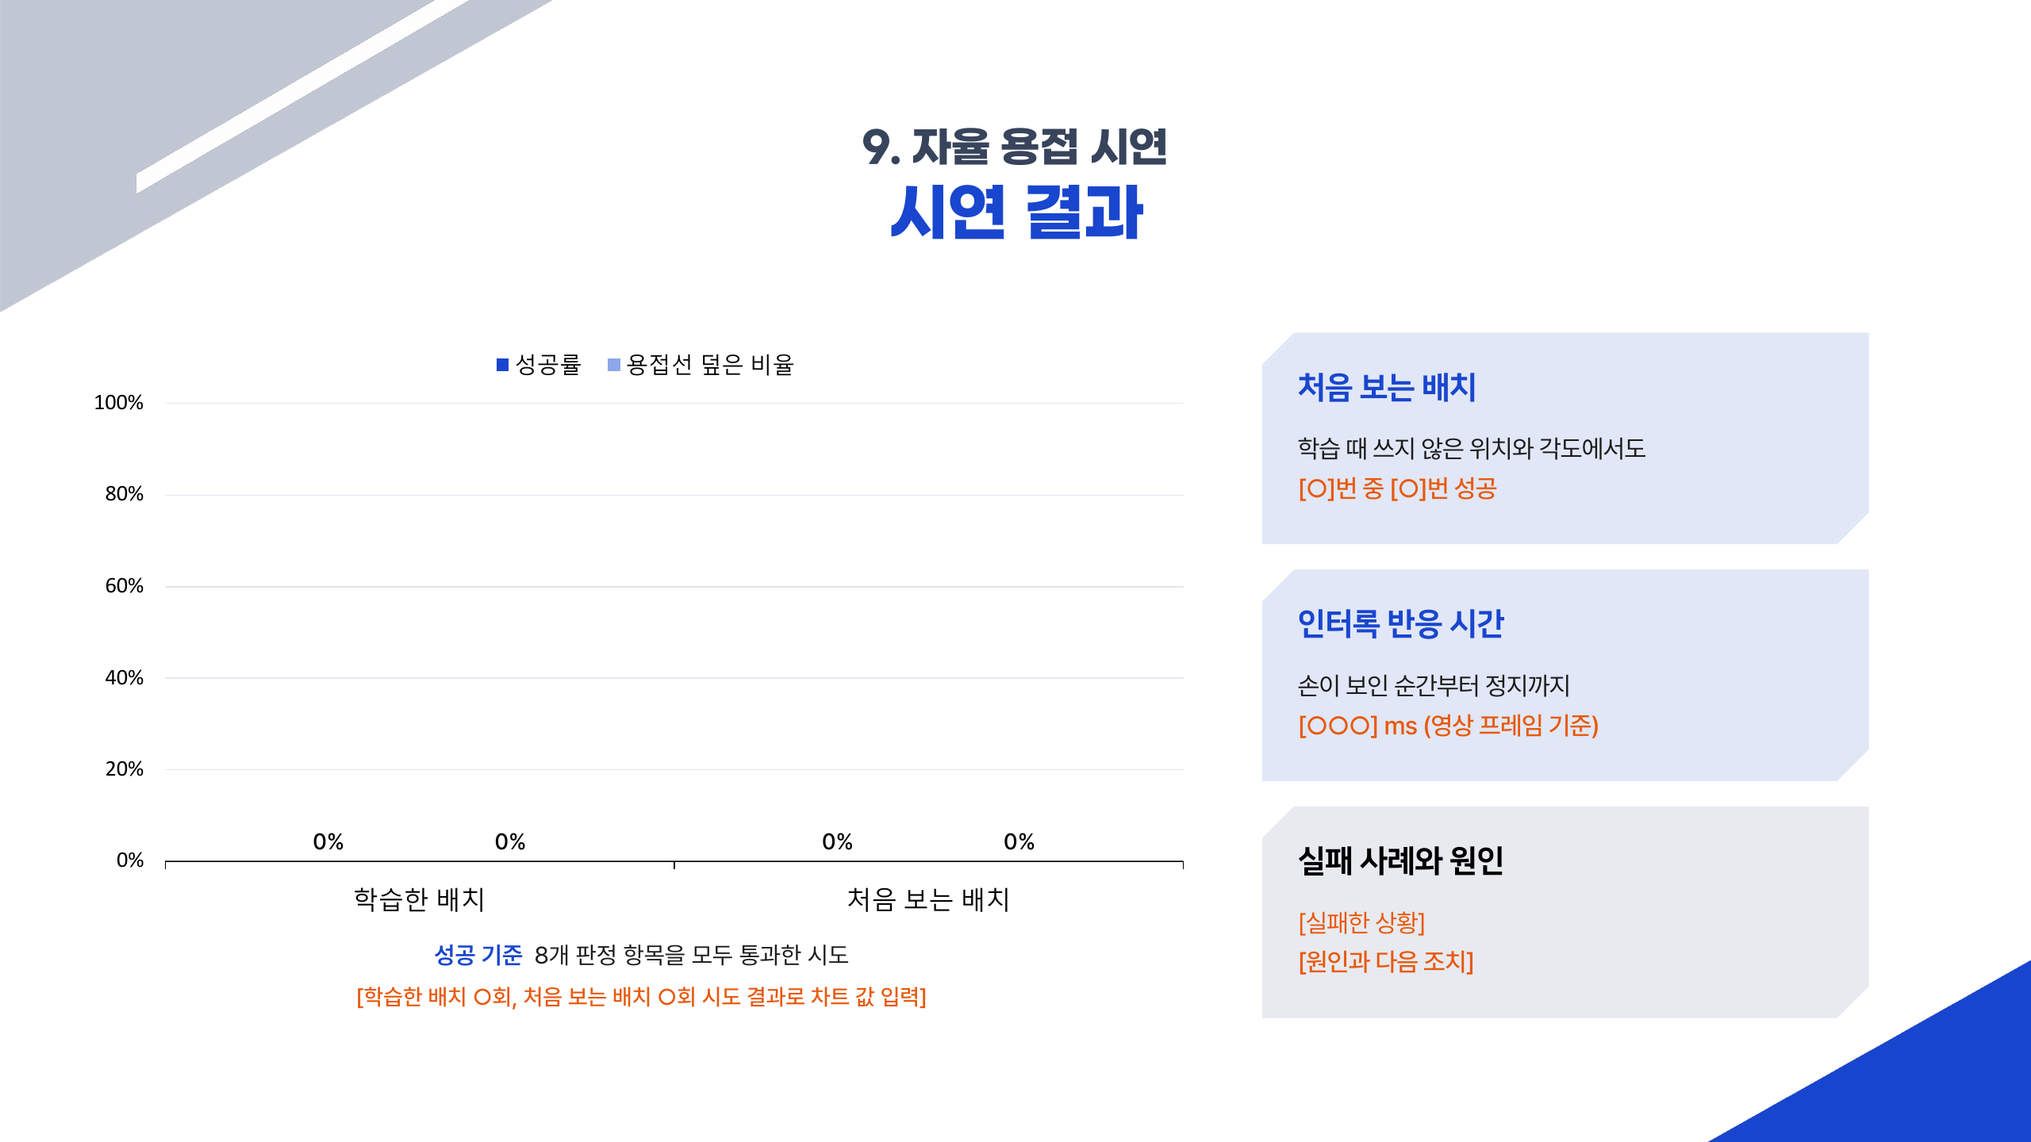
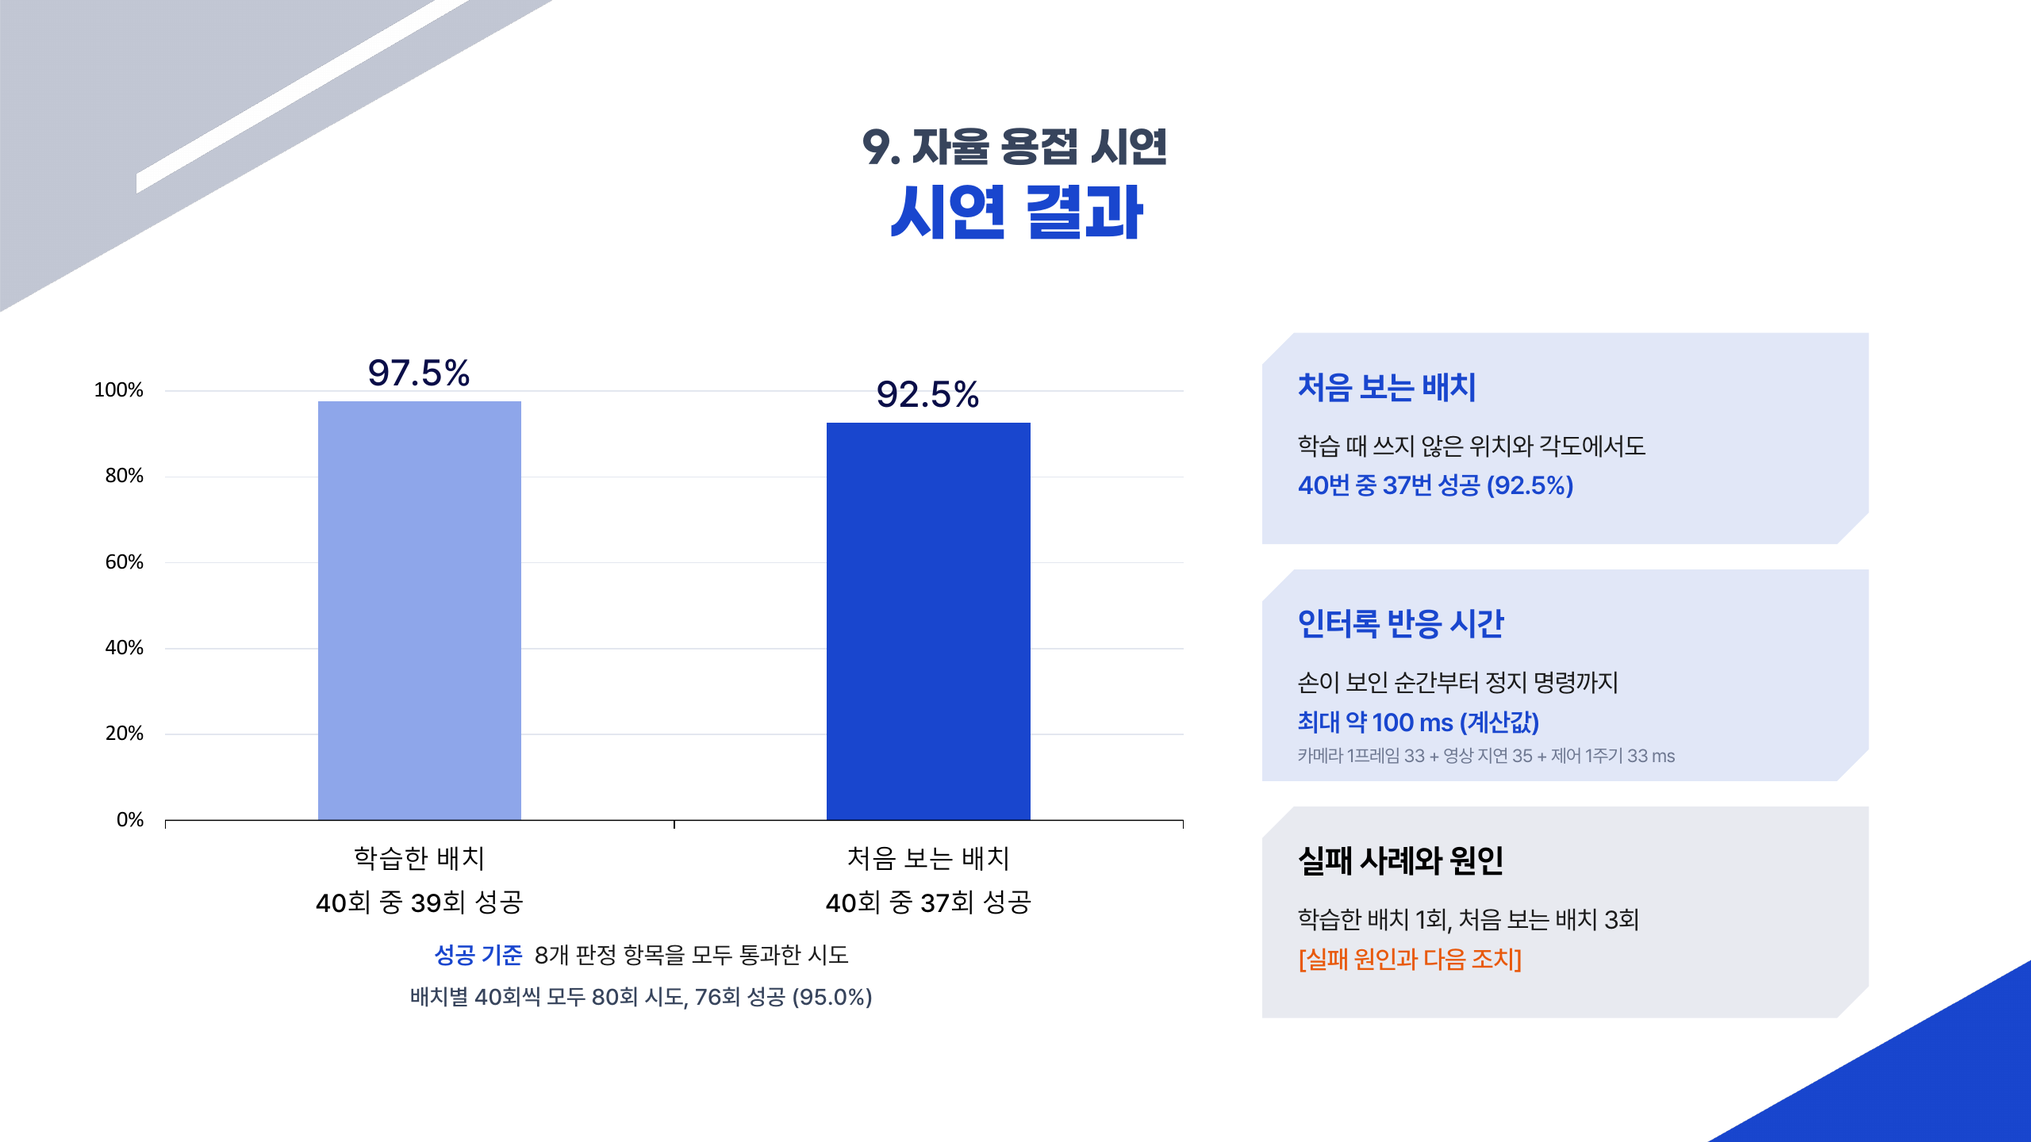
시연 결과 숫자와 개요 사진 반영, 구성도 그림을 6축으로 수정
- 18장 시연 결과: 학습한 배치 40회 중 39회(97.5%), 처음 보는 배치 40회 중
  37회(92.5%). 인터록 반응 시간은 실측값이 없어 계산값(최대 약 100 ms)으로 표시
- 3장 개요 사진을 코너 시편 시연 영상에서 초록 레이저가 용접선을 비추는 장면으로 교체
- 소개 페이지: 같은 사진으로 바꾸고 성공 판정 기준 아래에 결과 표 추가
- 소개 페이지 구성도 그림에 남아 있던 '7축 매니퓰레이터'를 6축으로 다시 뽑음

diff --git a/index.html b/index.html
@@ -49,52 +49,52 @@
 </head>
 <body>
 <main class="stage" id="stage">
-  <img class="slide" src="deck/final/01.png?v=11121123" alt="2026 IRC 지능로봇대회 매니퓰레이터 종목. 제조 디지털 전환(DX) 6축 자율용접 로봇. 손태산, 김광빈, 김동희, 왕혜영">
-  <img class="slide" src="deck/final/02.png?v=11121123" alt="목차" loading="lazy">
-  <img class="slide" src="deck/final/03.png?v=11121123" alt="1. 프로젝트 개요. 6축 자율용접 로봇" loading="lazy">
-  <img class="slide" src="deck/final/04.png?v=11121123" alt="2. 프로젝트 수행 배경: 숙련 기술의 단절과 기존 자동용접의 한계. 실내 철골 제작공장 자동용접 사진, 강교량 야외 건설현장 사진" loading="lazy">
-  <img class="slide" src="deck/final/05.png?v=11121123" alt="3. 프로젝트 수행 필요성: 숙련 기술의 계승과 비정형 환경 대응을 위한 자율용접 기술의 필요성" loading="lazy">
+  <img class="slide" src="deck/final/01.png?v=11121141" alt="2026 IRC 지능로봇대회 매니퓰레이터 종목. 제조 디지털 전환(DX) 6축 자율용접 로봇. 손태산, 김광빈, 김동희, 왕혜영">
+  <img class="slide" src="deck/final/02.png?v=11121141" alt="목차" loading="lazy">
+  <img class="slide" src="deck/final/03.png?v=11121141" alt="1. 프로젝트 개요. 6축 자율용접 로봇. 왼쪽은 코너 시편의 용접선을 초록 레이저로 따라가는 로봇 사진" loading="lazy">
+  <img class="slide" src="deck/final/04.png?v=11121141" alt="2. 프로젝트 수행 배경: 숙련 기술의 단절과 기존 자동용접의 한계. 실내 철골 제작공장 자동용접 사진, 강교량 야외 건설현장 사진" loading="lazy">
+  <img class="slide" src="deck/final/05.png?v=11121141" alt="3. 프로젝트 수행 필요성: 숙련 기술의 계승과 비정형 환경 대응을 위한 자율용접 기술의 필요성" loading="lazy">
   <div class="slide">
-    <img src="deck/final/06.png?v=11121123" alt="4. 개발 목표 및 차별성: 룰 베이스를 넘어 숙련 행동 학습으로. OPTi3 용접로봇 전시 시연과 실제 아크 용접 영상, 기존 룰 베이스와 본 프로젝트 비교, 최종 개발 목표" loading="lazy">
+    <img src="deck/final/06.png?v=11121141" alt="4. 개발 목표 및 차별성: 룰 베이스를 넘어 숙련 행동 학습으로. OPTi3 용접로봇 전시 시연과 실제 아크 용접 영상, 기존 룰 베이스와 본 프로젝트 비교, 최종 개발 목표" loading="lazy">
     <!-- PPT 6장 영상 자리(x 60/468, y 270, 392×294pt / 1440×810pt)에 맞춰 올린 6초~20초 구간 GIF -->
-    <img class="clip" style="left:4.1667%; top:33.333%; width:27.222%; height:36.296%;" src="deck/img/opti3_demo.gif?v=11121123" alt="OPTi3 전시 시연 6초에서 20초 구간" loading="lazy">
-    <img class="clip" style="left:32.5%; top:33.333%; width:27.222%; height:36.296%;" src="deck/img/opti3_arc.gif?v=11121123" alt="OPTi3 실제 아크 용접 6초에서 20초 구간" loading="lazy">
+    <img class="clip" style="left:4.1667%; top:33.333%; width:27.222%; height:36.296%;" src="deck/img/opti3_demo.gif?v=11121141" alt="OPTi3 전시 시연 6초에서 20초 구간" loading="lazy">
+    <img class="clip" style="left:32.5%; top:33.333%; width:27.222%; height:36.296%;" src="deck/img/opti3_arc.gif?v=11121141" alt="OPTi3 실제 아크 용접 6초에서 20초 구간" loading="lazy">
   </div>
-  <img class="slide" src="deck/final/07.png?v=11121123" alt="5. 개발 대상 및 자율 작업 시나리오: 수평 접합선에 대응하는 자율용접 작업 구현. 3면 직각 시편과 T형 필릿 시편" loading="lazy">
-  <img class="slide" src="deck/final/08.png?v=11121123" alt="6. 시스템 구성 및 하드웨어 설계: 자율용접 로봇 시스템 아키텍처" loading="lazy">
-  <img class="slide" src="deck/final/09.png?v=11121123" alt="6. 시스템 구성 및 하드웨어 설계: 역할을 나눈 세 가지 AI. ACT 모방학습(제어), YOLO 용접선 검출(인식과 검증), 손 검출 인터록(안전)" loading="lazy">
-  <img class="slide" src="deck/final/10.png?v=11121123" alt="6. 시스템 구성 및 하드웨어 설계: 하드웨어 설계. SolidWorks 조립 기반 6축 매니퓰레이터와 레이저 엔드이펙터 렌더, 엔드이펙터 CAD, 매니퓰레이터, 엔드이펙터, 카메라, 개선 내용" loading="lazy">
-  <img class="slide" src="deck/final/11.png?v=11121123" alt="6. 시스템 구성 및 하드웨어 설계: 직접 개선한 기술. 엔드이펙터 설계 변천 v1, v2, v3, 최종 레이저 일체형" loading="lazy">
+  <img class="slide" src="deck/final/07.png?v=11121141" alt="5. 개발 대상 및 자율 작업 시나리오: 수평 접합선에 대응하는 자율용접 작업 구현. 3면 직각 시편과 T형 필릿 시편" loading="lazy">
+  <img class="slide" src="deck/final/08.png?v=11121141" alt="6. 시스템 구성 및 하드웨어 설계: 자율용접 로봇 시스템 아키텍처" loading="lazy">
+  <img class="slide" src="deck/final/09.png?v=11121141" alt="6. 시스템 구성 및 하드웨어 설계: 역할을 나눈 세 가지 AI. ACT 모방학습(제어), YOLO 용접선 검출(인식과 검증), 손 검출 인터록(안전)" loading="lazy">
+  <img class="slide" src="deck/final/10.png?v=11121141" alt="6. 시스템 구성 및 하드웨어 설계: 하드웨어 설계. SolidWorks 조립 기반 6축 매니퓰레이터와 레이저 엔드이펙터 렌더, 엔드이펙터 CAD, 매니퓰레이터, 엔드이펙터, 카메라, 개선 내용" loading="lazy">
+  <img class="slide" src="deck/final/11.png?v=11121141" alt="6. 시스템 구성 및 하드웨어 설계: 직접 개선한 기술. 엔드이펙터 설계 변천 v1, v2, v3, 최종 레이저 일체형" loading="lazy">
   <div class="slide">
-    <img src="deck/final/12.png?v=11121123" alt="7. 실시간 작업 모니터링: 웹 대시보드로 보는 영상과 로봇 상태" loading="lazy">
+    <img src="deck/final/12.png?v=11121141" alt="7. 실시간 작업 모니터링: 웹 대시보드로 보는 영상과 로봇 상태" loading="lazy">
     <!-- PPT 12장 대시보드 카메라 칸에 올린 실제 화면 녹화 GIF(코너 시편, 3배속) -->
-    <img class="clip" style="left:4.7222%; top:35.0617%; width:25.9722%; height:25.9259%;" src="deck/img/corner_dash_top.gif?v=11121123" alt="상단 카메라 실제 화면. 코너 시편 용접선 두 개가 파란색에서 빨간색으로 바뀜, 3배속" loading="lazy">
-    <img class="clip" style="left:31.8056%; top:35.0617%; width:25.9722%; height:25.9259%;" src="deck/img/corner_dash_wrist.gif?v=11121123" alt="손목 카메라 실제 화면. 시편 위 초록 레이저 점, 3배속" loading="lazy">
+    <img class="clip" style="left:4.7222%; top:35.0617%; width:25.9722%; height:25.9259%;" src="deck/img/corner_dash_top.gif?v=11121141" alt="상단 카메라 실제 화면. 코너 시편 용접선 두 개가 파란색에서 빨간색으로 바뀜, 3배속" loading="lazy">
+    <img class="clip" style="left:31.8056%; top:35.0617%; width:25.9722%; height:25.9259%;" src="deck/img/corner_dash_wrist.gif?v=11121141" alt="손목 카메라 실제 화면. 시편 위 초록 레이저 점, 3배속" loading="lazy">
     <span class="camlabel" style="left:4.7222%; top:57.5309%; width:25.9722%; height:3.4568%;">상단 카메라<b>LIVE</b></span>
     <span class="camlabel" style="left:31.8056%; top:57.5309%; width:25.9722%; height:3.4568%;">손목 카메라<b>LIVE</b></span>
     <span class="tag" style="left:26.6667%; top:36.0494%; width:3.4722%; height:2.7160%;">3배속</span>
     <span class="tag" style="left:53.7500%; top:36.0494%; width:3.4722%; height:2.7160%;">3배속</span>
   </div>
   <div class="slide">
-    <img src="deck/final/13.png?v=11121123" alt="7. 실시간 작업 모니터링: YOLO 용접선 검출과 진행 표시, 성공 판정 기준" loading="lazy">
+    <img src="deck/final/13.png?v=11121141" alt="7. 실시간 작업 모니터링: YOLO 용접선 검출과 진행 표시, 성공 판정 기준" loading="lazy">
     <!-- PPT 13장 가운데 칸(진행 중)에 올린 2배속 GIF -->
-    <img class="clip" style="left:34.0278%; top:28.1481%; width:27.7778%; height:37.0370%;" src="deck/img/t_yolo_progress.gif?v=11121123" alt="T자 시편 상단 카메라 화면. 레이저가 지나간 구간의 용접선이 파란색에서 빨간색으로 바뀜, 2배속" loading="lazy">
+    <img class="clip" style="left:34.0278%; top:28.1481%; width:27.7778%; height:37.0370%;" src="deck/img/t_yolo_progress.gif?v=11121141" alt="T자 시편 상단 카메라 화면. 레이저가 지나간 구간의 용접선이 파란색에서 빨간색으로 바뀜, 2배속" loading="lazy">
     <span class="tag" style="left:57.7778%; top:29.1358%; width:3.4722%; height:2.7160%;">2배속</span>
   </div>
-  <img class="slide" src="deck/final/14.png?v=11121123" alt="7. 실시간 작업 모니터링: YOLO 추론 최적화로 2.1배 가속. PyTorch에서 ONNX, TensorRT FP16 변환, 1회 추론 시간 중앙값 8.1 ms에서 3.8 ms, 정확도 유지, ACT 정책 변환 예정" loading="lazy">
-  <img class="slide" src="deck/final/15.png?v=11121123" alt="8. ACT 기반 모방학습 및 자율 제어: 시연, 기록, ACT 학습, 자율 실행, ACT는 동작을 묶음으로 예측" loading="lazy">
+  <img class="slide" src="deck/final/14.png?v=11121141" alt="7. 실시간 작업 모니터링: YOLO 추론 최적화로 2.1배 가속. PyTorch에서 ONNX, TensorRT FP16 변환, 1회 추론 시간 중앙값 8.1 ms에서 3.8 ms, 정확도 유지, ACT 정책 변환 예정" loading="lazy">
+  <img class="slide" src="deck/final/15.png?v=11121141" alt="8. ACT 기반 모방학습 및 자율 제어: 시연, 기록, ACT 학습, 자율 실행, ACT는 동작을 묶음으로 예측" loading="lazy">
   <div class="slide">
-    <img src="deck/final/16.png?v=11121123" alt="9. 자율 용접 시연: 임의 배치 시편 자율용접 시연, 확인 항목 8개, 시연 시편(T자 필릿, 3면 직각)" loading="lazy">
+    <img src="deck/final/16.png?v=11121141" alt="9. 자율 용접 시연: 임의 배치 시편 자율용접 시연, 확인 항목 8개, 시연 시편(T자 필릿, 3면 직각)" loading="lazy">
     <!-- PPT 16장 시연 영상 자리(1440×810pt 기준)에 올린 2배속 GIF와 배속 표시 -->
-    <img class="clip" style="left:8.2509%; top:29.1358%; width:22.8602%; height:42.4691%;" src="deck/img/t_demo.gif?v=11121123" alt="T자 필릿 시편 자율용접 시연, 2배속" loading="lazy">
-    <img class="clip" style="left:32.7778%; top:29.1358%; width:22.8602%; height:42.4691%;" src="deck/img/corner_demo.gif?v=11121123" alt="3면 직각 코너 시편 자율용접 시연, 2배속" loading="lazy">
+    <img class="clip" style="left:8.2509%; top:29.1358%; width:22.8602%; height:42.4691%;" src="deck/img/t_demo.gif?v=11121141" alt="T자 필릿 시편 자율용접 시연, 2배속" loading="lazy">
+    <img class="clip" style="left:32.7778%; top:29.1358%; width:22.8602%; height:42.4691%;" src="deck/img/corner_demo.gif?v=11121141" alt="3면 직각 코너 시편 자율용접 시연, 2배속" loading="lazy">
     <span class="tag" style="left:27.0833%; top:30.1235%; width:3.4722%; height:2.7160%;">2배속</span>
     <span class="tag" style="left:51.6102%; top:30.1235%; width:3.4722%; height:2.7160%;">2배속</span>
   </div>
-  <img class="slide" src="deck/final/17.png?v=11121123" alt="9. 자율 용접 시연: 성공 판정 기준. 시편 인식, 시작점 접근, 토치 거리 유지, 레이저 ON, 용접선 추종, 종료점 도달, 레이저 OFF, 원위치 복귀의 8개 항목을 모두 통과해야 성공. 용접선 추종은 경로 이탈 5mm 이하와 용접선의 90% 이상이 빨간색으로 바뀌는 것" loading="lazy">
-  <img class="slide" src="deck/final/18.png?v=11121123" alt="9. 자율 용접 시연: 시연 결과. 성공 기준은 8개 판정 항목을 모두 통과한 시도" loading="lazy">
-  <img class="slide" src="deck/final/19.png?v=11121123" alt="10. 결론 및 향후 과제" loading="lazy">
-  <img class="slide" src="deck/final/20.png?v=11121123" alt="10. 결론 및 향후 과제: 한계점과 향후 과제, 홈페이지 QR 코드" loading="lazy">
+  <img class="slide" src="deck/final/17.png?v=11121141" alt="9. 자율 용접 시연: 성공 판정 기준. 시편 인식, 시작점 접근, 토치 거리 유지, 레이저 ON, 용접선 추종, 종료점 도달, 레이저 OFF, 원위치 복귀의 8개 항목을 모두 통과해야 성공. 용접선 추종은 경로 이탈 5mm 이하와 용접선의 90% 이상이 빨간색으로 바뀌는 것" loading="lazy">
+  <img class="slide" src="deck/final/18.png?v=11121141" alt="9. 자율 용접 시연: 시연 결과. 학습한 배치 40회 중 39회(97.5%), 처음 보는 배치 40회 중 37회(92.5%) 성공. 성공 기준은 8개 판정 항목을 모두 통과한 시도. 인터록 반응 시간 최대 약 100 ms(계산값)" loading="lazy">
+  <img class="slide" src="deck/final/19.png?v=11121141" alt="10. 결론 및 향후 과제" loading="lazy">
+  <img class="slide" src="deck/final/20.png?v=11121141" alt="10. 결론 및 향후 과제: 한계점과 향후 과제, 홈페이지 QR 코드" loading="lazy">
 </main>
 
 <div class="bar">

diff --git a/project.html b/project.html
@@ -87,7 +87,7 @@
     <a href="#ee">엔드이펙터 개선</a>
     <a href="#learn">데이터 수집과 학습</a>
     <a href="#speed">추론 최적화</a>
-    <a href="#measure">성공 판정 기준</a>
+    <a href="#measure">성공 기준과 결과</a>
     <a href="#limits">한계와 향후 과제</a>
     <a href="#refs">참고 자료</a>
   </div>
@@ -99,8 +99,8 @@
   <h2><small>01</small>무엇을 만들었나</h2>
   <div class="two">
     <figure>
-      <img class="tall" src="project/img/s3_robot.jpg?v=11121123" alt="3D 프린팅한 레이저 일체형 엔드이펙터를 단 자체 제작 로봇 팔" loading="lazy">
-      <figcaption>자체 제작 6축 로봇의 레이저 일체형 엔드이펙터</figcaption>
+      <img class="tall" src="project/img/robot_corner_laser.jpg?v=11121141" alt="자체 제작 6축 로봇이 코너 시편의 용접선을 초록 레이저로 따라가는 장면" loading="lazy">
+      <figcaption>코너 시편의 용접선을 레이저로 따라가는 자체 제작 6축 로봇</figcaption>
     </figure>
     <div>
       <p class="lead">숙련 용접공의 고령화로 기술이 끊길 우려가 있고, 기존 교시 기반 자동용접은 작업물 위치가 매번 바뀌는 건설현장에 쓰기 어렵습니다. 그래서 숙련자가 리더암으로 시연한 동작을 ACT 모방학습으로 배워, 임의로 놓인 시편을 스스로 용접하는 로봇을 만들었습니다.</p>
@@ -123,7 +123,7 @@
 <section id="system">
   <h2><small>02</small>시스템 구성</h2>
   <figure>
-    <img src="project/img/architecture.png?v=11121123" alt="시스템 구성도. 상단과 손목 카메라 영상이 로컬 PC의 ACT 정책으로 들어가고, 정책의 목표 관절값이 서보 제어를 거쳐 6축 매니퓰레이터와 엔드이펙터로 전달됨. 손 검출 시 정지, 웹 클라이언트로 영상과 상태 전송" loading="lazy">
+    <img src="project/img/architecture.png?v=11121141" alt="시스템 구성도. 상단과 손목 카메라 영상이 로컬 PC의 ACT 정책으로 들어가고, 정책의 목표 관절값이 서보 제어를 거쳐 6축 매니퓰레이터와 엔드이펙터로 전달됨. 손 검출 시 정지, 웹 클라이언트로 영상과 상태 전송" loading="lazy">
   </figure>
   <ul class="plain">
     <li>카메라 2대(상단, 손목) 영상이 USB로 로컬 PC에 들어옵니다.</li>
@@ -153,7 +153,7 @@
   <h3>엔드이펙터 출력 파일</h3>
   <div class="two">
     <figure>
-      <img src="project/img/ee_cad.png?v=11121123" alt="최종 레이저 일체형 엔드이펙터 CAD. 서보와 본체, 레이저 포인터를 잡는 집게와 브래킷" loading="lazy">
+      <img src="project/img/ee_cad.png?v=11121141" alt="최종 레이저 일체형 엔드이펙터 CAD. 서보와 본체, 레이저 포인터를 잡는 집게와 브래킷" loading="lazy">
       <figcaption>최종 레이저 일체형 엔드이펙터</figcaption>
     </figure>
     <div>
@@ -177,7 +177,7 @@
   <h2><small>04</small>엔드이펙터 개선 과정</h2>
   <div class="two">
     <figure>
-      <img src="project/img/ee_torch_old.jpg?v=11121123" alt="1차 설계인 OPTi3 축소 토치형 엔드이펙터 CAD. 토치 옆에 레이저와 서보가 달려 있음" loading="lazy">
+      <img src="project/img/ee_torch_old.jpg?v=11121141" alt="1차 설계인 OPTi3 축소 토치형 엔드이펙터 CAD. 토치 옆에 레이저와 서보가 달려 있음" loading="lazy">
       <figcaption>1차 설계: OPTi3 축소 토치형 (토치 단축, 레이저 후퇴 적용 후)</figcaption>
     </figure>
     <div>
@@ -254,7 +254,7 @@
 </section>
 
 <section id="measure">
-  <h2><small>06</small>성공 판정 기준</h2>
+  <h2><small>06</small>성공 판정 기준과 결과</h2>
   <p class="lead">한 번의 시도는 아래 8개 항목을 모두 통과해야 성공으로 봅니다. 판정 수치는 팀 협의용 제안값입니다.</p>
   <div class="scroll">
   <table>
@@ -280,7 +280,20 @@
   <div class="box gray">
     <p><b>재는 방법</b>: 토치(레이저 끝) 거리는 게이지 블록으로, 추종 오차와 시작점, 종료점 오차는 레이저 점 위치로, 레이저 ON/OFF는 카메라 영상으로 확인합니다.</p>
   </div>
-  <!-- 시연 결과(시도 횟수, 성공률, 평균 오차)는 측정 후 여기에 표로 추가 -->
+  <h3>시연 결과</h3>
+  <div class="scroll">
+  <table>
+    <thead><tr><th>배치</th><th>시도</th><th>성공</th><th>성공률</th></tr></thead>
+    <tbody>
+      <tr><td>학습한 배치</td><td>40</td><td>39</td><td>97.5%</td></tr>
+      <tr><td>처음 보는 배치 (학습 때 쓰지 않은 위치와 각도)</td><td>40</td><td>37</td><td>92.5%</td></tr>
+      <tr><td><b>합계</b></td><td>80</td><td>76</td><td><b>95.0%</b></td></tr>
+    </tbody>
+  </table>
+  </div>
+  <div class="box gray">
+    <p><b>인터록 반응 시간</b>: 손이 보인 순간부터 정지 명령까지 최대 약 100ms로 계산됩니다. 카메라 한 프레임(30fps, 33ms), 대시보드에 표시되는 영상 지연(약 35ms), 제어 한 주기(33ms)를 더한 값이며, 직접 잰 값은 아닙니다.</p>
+  </div>
 </section>
 
 <section id="limits">
